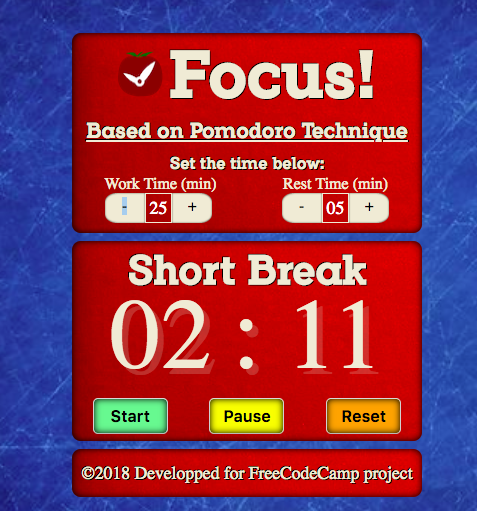
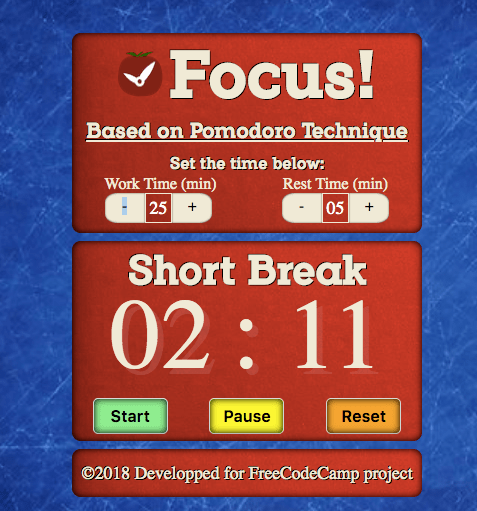
final

diff --git a/css/styles.css b/css/styles.css
@@ -2,7 +2,8 @@ body {
 	background: url('../images/background3.jpg');
 	background-size: cover;
 	background-repeat: no-repeat;
-	height: 110vh;
+	height: 100vh;
+    /*overflow-y: hidden;*/
 }
 
 @font-face {
@@ -13,20 +14,20 @@ body {
 
 #wrapper{
 	z-index: 0;
-	top: calc(50% - 450px/2);
+	top: calc(50% - 460px/2);
     position: absolute;
     left: calc(50% - 350px/2);
+    padding: 1rem 0 1rem 0;
 }
 
 .container{
 	min-width: 350px;
 	text-align: center;
-	height: 100%;
 }
 
 #top_portion_container{
 	background: url('../images/background.jpg');
-	height: 200px;
+	height: 210px;
 	width: 350px;
 	margin: 0 auto;
 	border-radius: 9px;
@@ -222,7 +223,7 @@ body {
 /*flip effect end*/
 
 .buttons{
-	margin-top: 0.8rem;
+	margin: 0.8rem 0 3.8rem 0;
     display: flex;
     justify-content: space-around;
     z-index: 3;
@@ -280,6 +281,7 @@ body {
 
 
 #dropdown-content{
+
 	visibility: collapse;
 	background-color: lightcyan;
     border: 4px solid #000;
@@ -381,6 +383,12 @@ body {
 	#modal-wrapper{
 		left: calc(50% - 380px);
 	}
+}
+
+@media only screen and (max-width:700px){
+    body{
+        overflow-y:scroll;
+    }
 }
 
 
